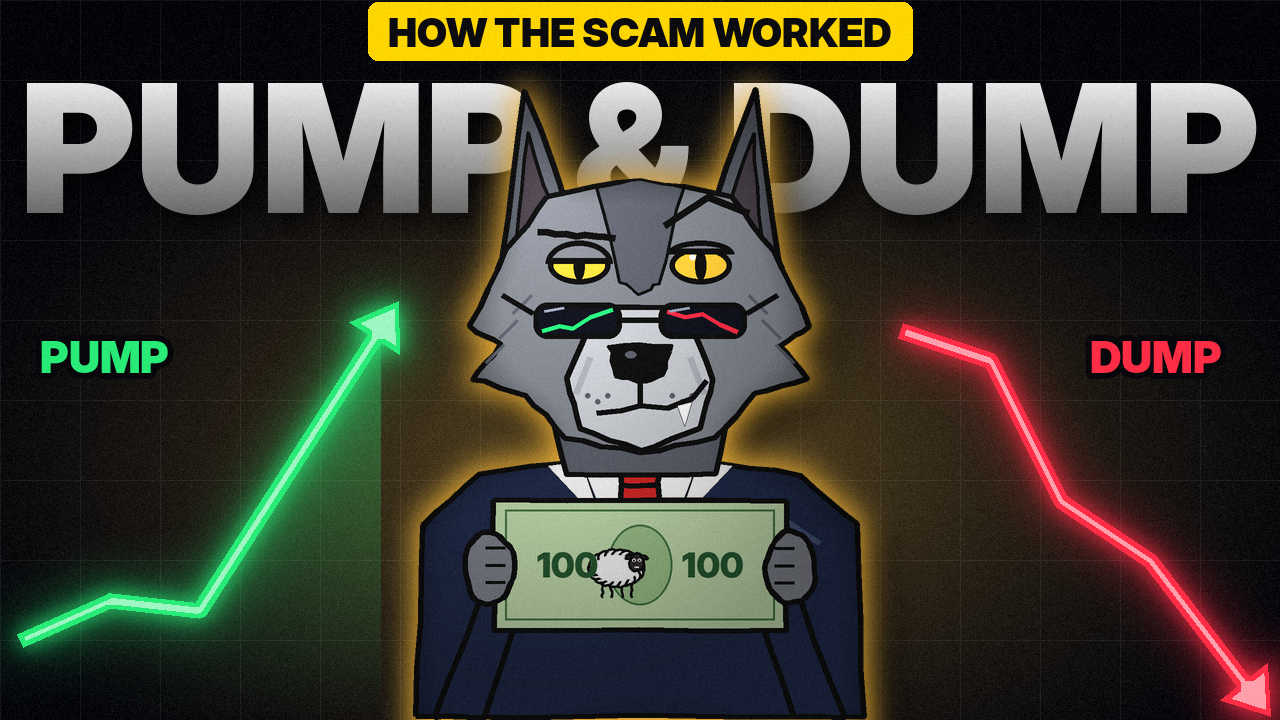
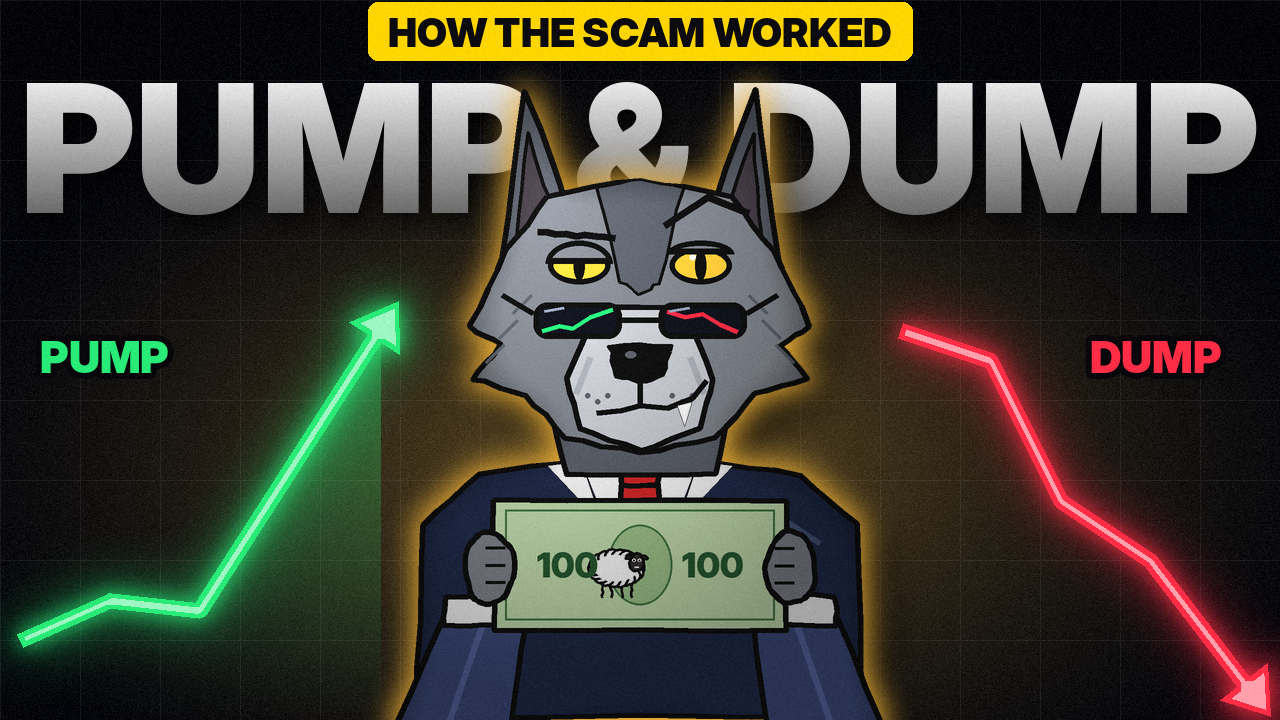
EP02 thumb: visible sleeves holding the bill
Claude-Session: https://claude.ai/code/session_01UfLUgJczAYJw2VoQ5ySqhd

Changed region(s): [[0.5625, 0.825, 0.7188, 1.0], [0.2812, 0.825, 0.4062, 1.0]]

diff --git a/youtube/kit/thumbs.py b/youtube/kit/thumbs.py
@@ -196,10 +196,14 @@ def wolf_holds_bill(d, cx, cy, s=1.0, text="$100", mood="smirk", glasses="down")
     INK, GREY, SUIT = (17, 17, 17), (128, 132, 140), (34, 44, 74)
     P = lambda x, y: (cx + x * s, cy + y * s)
     lw = max(4, int(9 * s))
-    for k in (-1, 1):                                   # предплечья от боков к купюре
-        W.shape(d, [P(k * 330, 640), P(k * 250, 640), P(k * 175, 420), P(k * 235, 395)], SUIT, lw, seed=240 + k)
     bw, bh = 470, 210
     x0, y0 = cx - bw / 2 * s, cy + 290 * s
+    SLEEVE, CUFF = (62, 76, 124), (245, 245, 245)
+    for k in (-1, 1):                                   # рукава (под купюрой): от низа кадра к лапам, светлее пиджака
+        px = k * (bw / 2 + 8)
+        W.shape(d, [P(k * 420, 720), P(k * 215, 720), P(px - k * 62, 470), P(px + k * 70, 470)], SLEEVE, lw, seed=240 + k)
+        d.line([P(k * 330, 715), P(px + k * 10, 490)], fill=(88, 104, 160), width=max(3, int(10 * s)))   # блик на рукаве
+        W.shape(d, [P(px - k * 66, 445), P(px + k * 72, 445), P(px + k * 74, 492), P(px - k * 66, 492)], CUFF, lw, seed=246 + k)
     W.shape(d, [(x0, y0), (x0 + bw * s, y0), (x0 + bw * s, y0 + bh * s), (x0, y0 + bh * s)], (196, 222, 176), lw, seed=245)   # купюра
     d.rectangle([x0 + 18 * s, y0 + 16 * s, x0 + (bw - 18) * s, y0 + (bh - 16) * s], outline=(70, 120, 70), width=max(2, int(4 * s)))
     d.ellipse([cx - 52 * s, y0 + 40 * s, cx + 52 * s, y0 + (bh - 40) * s], fill=(160, 196, 140), outline=(70, 120, 70), width=max(2, int(4 * s)))
